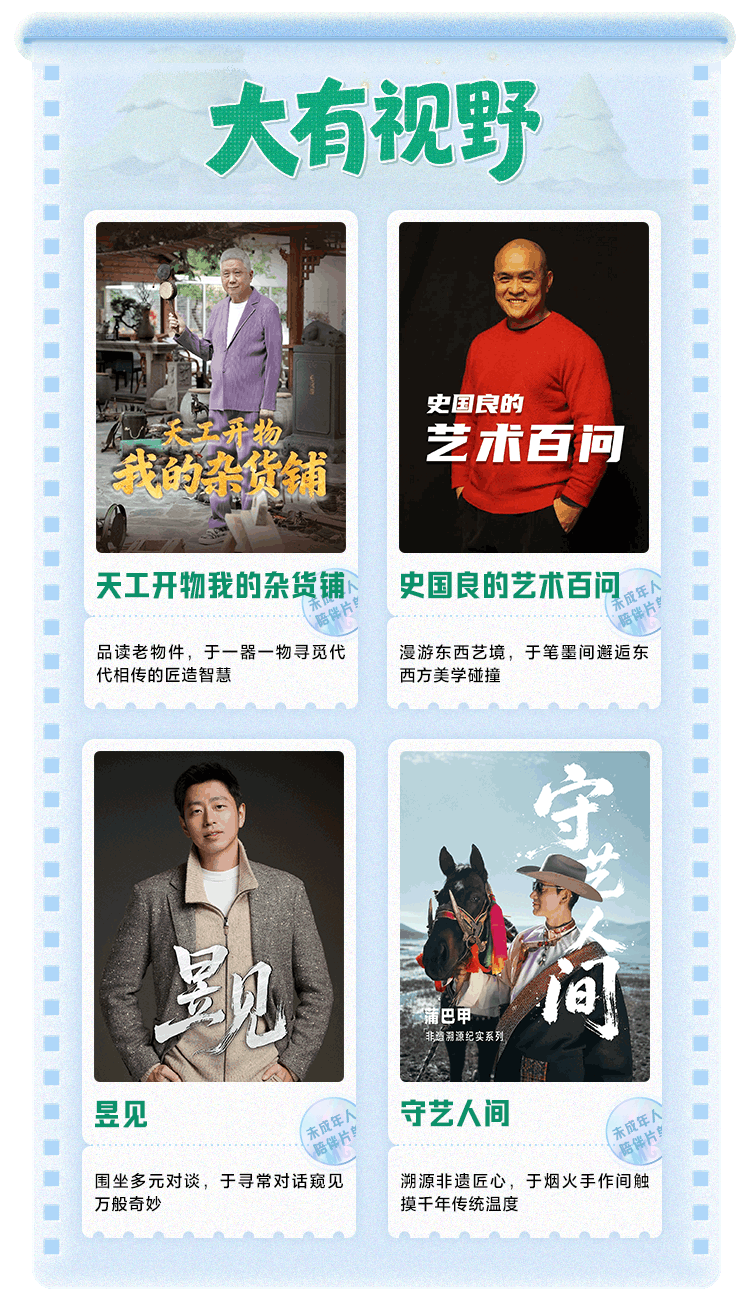
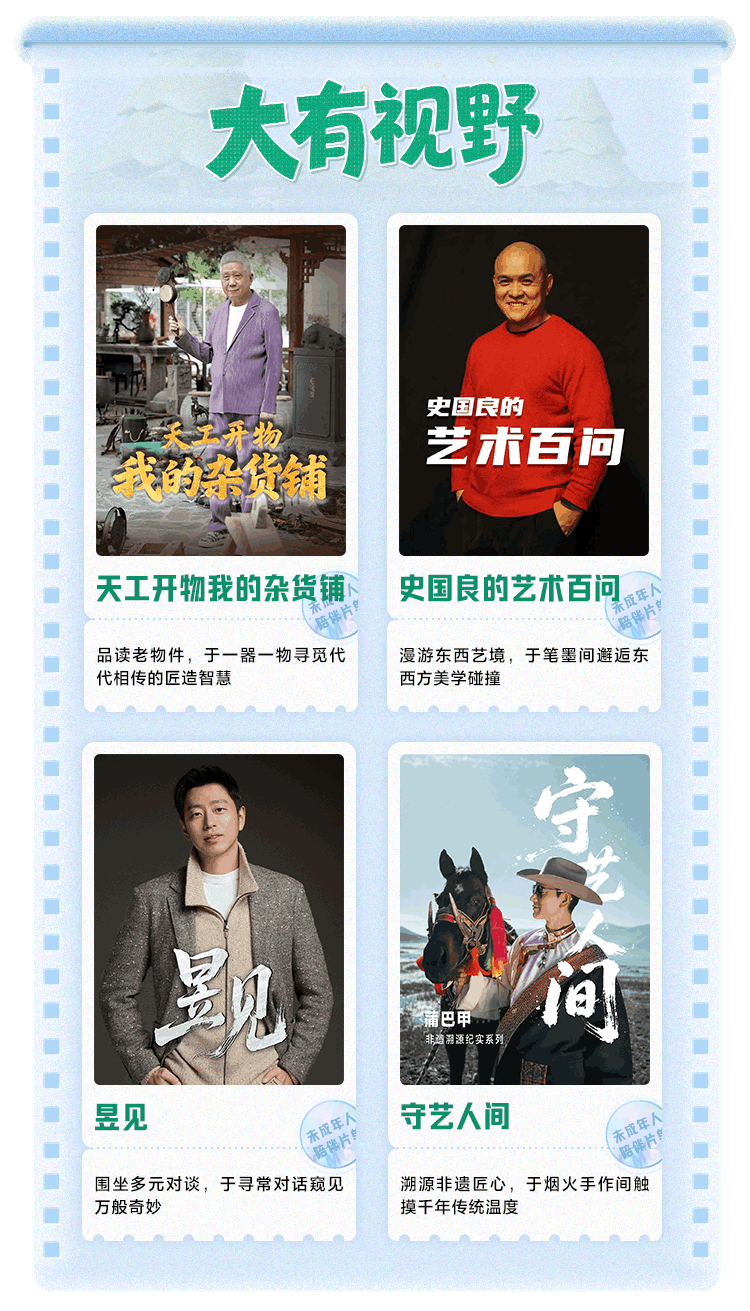
未成年人

diff --git a/works/weichennian/index.html b/works/weichennian/index.html
@@ -1,23 +1,23 @@
 <!doctype html>
 <html lang="en">
-  <head>
-    <meta charset="UTF-8" />
-    <meta name="viewport" content="width=device-width, initial-scale=1.0" />
-    <title>未成年人陪伴片单</title>
-    <style>
-      * {
-        margin: 0;
-        padding: 0;
-      }
-      body {
-        background-color: #000;
-      }
-    </style>
-  </head>
-  <body>
-    <section
-      data-name="最外层的容器"
-      style="
+
+<head>
+  <meta charset="UTF-8" />
+  <meta name="viewport" content="width=device-width, initial-scale=1.0" />
+  <title>未成年人陪伴片单</title>
+  <style>
+    * {
+      margin: 0;
+      padding: 0;
+    }
+
+    body {}
+  </style>
+</head>
+
+<body>
+  <p><span leaf="">11111111111</span></p>
+  <section data-name="最外层的容器" style="
         overflow: hidden;
         font-size: 0;
         line-height: 0;
@@ -25,13 +25,10 @@
         user-select: none;
         -webkit-user-select: none;
         -webkit-tap-highlight-color: transparent;
-      "
-    >
-      <section style="overflow: hidden; visibility: visible">
-        <section style="height: 0">
-          <svg
-            viewBox="0 0 750 1109"
-            style="
+      ">
+    <section style="overflow: hidden; visibility: visible">
+      <section style="height: 0">
+        <svg viewBox="0 0 750 1100" style="
               display: block;
               width: 100%;
               margin-top: -1px;
@@ -39,28 +36,12 @@
               -webkit-user-select: none;
               user-select: none;
               -webkit-tap-highlight-color: transparent;
-            "
-          >
-            <image href="./imgs/head.jpg" x="0" y="0" width="750" height="1109"></image>
-          </svg>
-            <svg
-            viewBox="0 0 750 189"
-            style="
-              display: block;
-              width: 100%;
-              margin-top: -1px;
-              pointer-events: none;
-              -webkit-user-select: none;
-              user-select: none;
-              -webkit-tap-highlight-color: transparent;
-            "
-          >
-            <image href="./imgs/tip1.jpg" x="0" y="0" width="750" height="189"></image>
-          </svg>
-          <section style="height: 0;">
-            <svg
-              viewBox="0 0 750 1309"
-              style="
+            ">
+          <image href="./imgs/head.jpg" x="0" y="0" width="750" height="1100"></image>
+        </svg>
+
+        <section style="height: 0;">
+          <svg viewBox="0 0 750 1311" style="
                 display: block;
                 width: 100%;
                 margin-top: -1px;
@@ -68,59 +49,37 @@
                 -webkit-user-select: none;
                 user-select: none;
                 -webkit-tap-highlight-color: transparent;
-              "
-            >
-              <image href="./imgs/bg.jpg" x="0" y="0" width="750" height="1309"></image>
-            </svg>
-          </section>
-          <section style="overflow: scroll hidden; width: 100% !important; pointer-events: painted">
-            <svg
-              viewBox="0 0 5250 1309"
-              style="display: block; width: 700%; pointer-events: none; user-select: none; max-width: none !important"
-            >
-              <g>
-                <image x="0" y="0" width="750" height="1309" href="./imgs/1.png"></image>
-                <image x="750" y="0" width="750" height="1309" href="./imgs/2.png"></image>
-                <image x="1500" y="0" width="750" height="1309" href="./imgs/3.png"></image>
-                <image x="2250" y="0" width="750" height="1309" href="./imgs/4.png"></image>
-                <image x="3000" y="0" width="750" height="1309" href="./imgs/5.png"></image>
-                <image x="3750" y="0" width="750" height="1309" href="./imgs/6.png"></image>
-                <image x="4500" y="0" width="750" height="1309" href="./imgs/7.png"></image>
-              </g>
-            </svg>
-          </section>
-           <svg
-            viewBox="0 0 750 64"
-            style="
-              display: block;
-              width: 100%;
-              margin-top: -1px;
-              pointer-events: none;
-              -webkit-user-select: none;
-              user-select: none;
-              -webkit-tap-highlight-color: transparent;
-            "
-          >
-            <image href="./imgs/tip.jpg" x="0" y="0" width="750" height="64"></image>
-          </svg>
-          <svg
-            viewBox="0 0 750 232"
-            style="
-              display: block;
-              width: 100%;
-              margin-top: -1px;
-              pointer-events: none;
-              -webkit-user-select: none;
-              user-select: none;
-              -webkit-tap-highlight-color: transparent;
-            "
-          >
-            <image href="./imgs/foot.jpg" x="0" y="0" width="750" height="232"></image>
+              ">
+            <image href="./imgs/bg.jpg" x="0" y="0" width="750" height="1311"></image>
           </svg>
         </section>
-        <svg
-          viewBox="0 0 750 1298"
-          style="
+        <section style="overflow: scroll hidden; width: 100% !important; pointer-events: painted">
+          <svg viewBox="0 0 5250 1311"
+            style="display: block; width: 700%; pointer-events: none; user-select: none; max-width: none !important">
+            <g>
+              <image x="0" y="0" width="750" height="1311" href="./imgs/1.png"></image>
+              <image x="750" y="0" width="750" height="1311" href="./imgs/2.png"></image>
+              <image x="1500" y="0" width="750" height="1311" href="./imgs/3.png"></image>
+              <image x="2250" y="0" width="750" height="1311" href="./imgs/4.png"></image>
+              <image x="3000" y="0" width="750" height="1311" href="./imgs/5.png"></image>
+              <image x="3750" y="0" width="750" height="1311" href="./imgs/6.png"></image>
+              <image x="4500" y="0" width="750" height="1311" href="./imgs/7.png"></image>
+            </g>
+          </svg>
+        </section>
+        <svg viewBox="0 0 750 232" style="
+              display: block;
+              width: 100%;
+              margin-top: -1px;
+              pointer-events: none;
+              -webkit-user-select: none;
+              user-select: none;
+              -webkit-tap-highlight-color: transparent;
+            ">
+          <image href="./imgs/foot.jpg" x="0" y="0" width="750" height="253"></image>
+        </svg>
+      </section>
+      <svg viewBox="0 0 750 1100" style="
             transform: scale(1);
             display: block;
             width: 100%;
@@ -129,30 +88,27 @@
             -webkit-user-select: none;
             user-select: none;
             -webkit-tap-highlight-color: transparent;
-          "
-        >
+          ">
 
-          <animate
-            calcMode="spline"
-            attributeName="width"
-            values="100%;223%;223%"
-            dur="1s"
-            keyTimes="0;0.125;1"
-            keySplines=".42,0,.58,1;.42,0,.58,1"
-            fill="freeze"
-            restart="never"
-            begin="click+0.3s"
-          ></animate>
+        <animate calcMode="spline" attributeName="width" values="100%;240.3%;240.3%" dur="1s" keyTimes="0;0.125;1"
+          keySplines=".42,0,.58,1;.42,0,.58,1" fill="freeze" restart="never" begin="click+0.3s"></animate>
 
-          <g>
-            <set attributeName="visibility" from="visible" to="hidden" fill="freeze" restart="never" begin="click+0.1s"></set>
-            <image x="0" y="1109" width="750" height="189" href="./imgs/btn.jpg"></image>
-            <rect x="200" y="1109" width="350" height="150" fill="#39f" opacity="0" style="pointer-events: visible">
-              <animate attributeName="x" values="88888888" dur="0.001s" fill="freeze" restart="never" begin="click"></animate>
-            </rect>
-          </g>
-        </svg>
-      </section>
+        <g>
+          <set attributeName="visibility" from="visible" to="hidden" fill="freeze" restart="never" begin="click+0.1s">
+          </set>
+          <animate attributeName="opacity" values="1;0.6;1" dur="2s" repeatCount="indefinite" begin="0s"
+            calcMode="spline" keyTimes="0;0.5;1" keySplines=".42 0 .58 1;.42 0 .58 1"></animate>
+          <image x="262" y="950" width="225" height="99" href="./imgs/btn.png"></image>
+          <rect x="200" y="950" width="350" height="100" fill="#39f" opacity="0" style="pointer-events: visible">
+            <animate attributeName="x" values="88888888" dur="0.001s" fill="freeze" restart="never" begin="click">
+            </animate>
+          </rect>
+        </g>
+
+      </svg>
     </section>
-  </body>
+  </section>
+  <p><span leaf="">11111111111</span></p>
+</body>
+
 </html>
